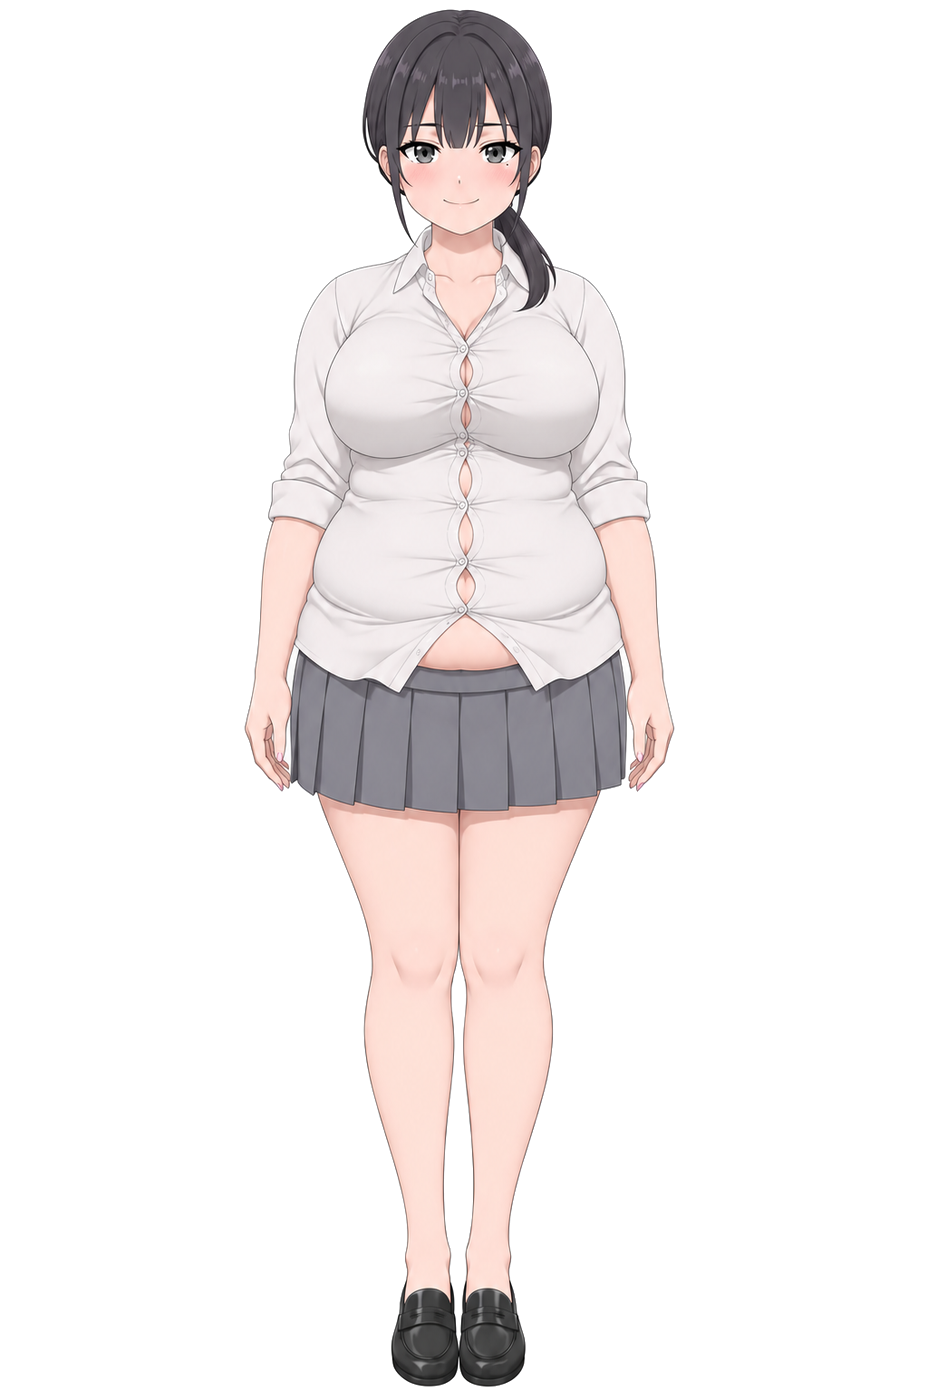
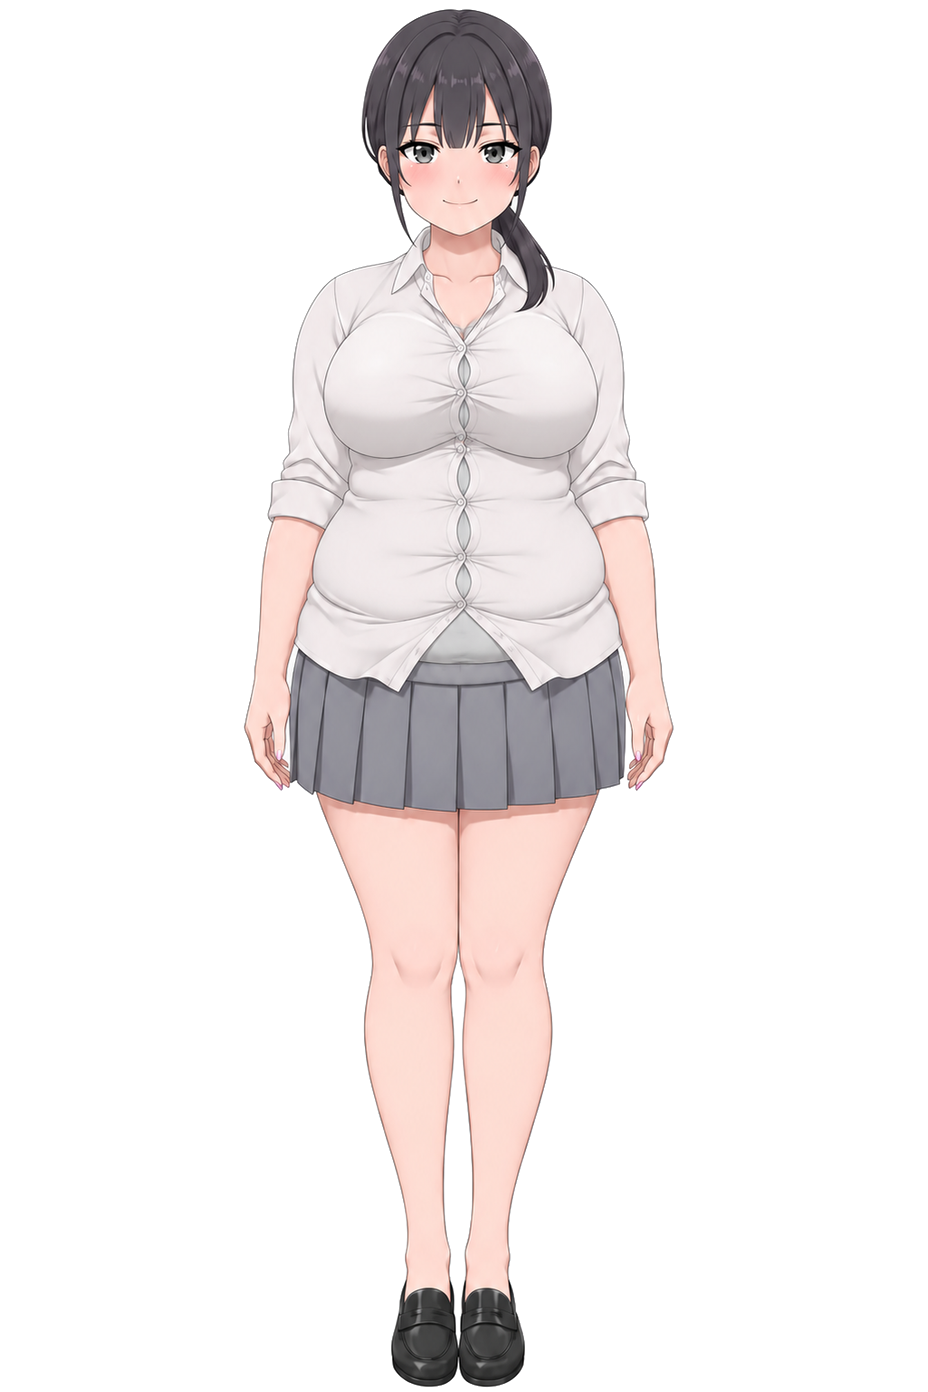
御堂家：静香8・文乃6（作り直し）・理沙7を採用
Claude-Session: https://claude.ai/code/session_018G6Rk6V1BWibDdgsCVBCLi

diff --git a/docs/理沙_キャラデザ.md b/docs/理沙_キャラデザ.md
@@ -36,6 +36,7 @@
 - 段階4（2026-11-09 採用）：`img/risa_4.png`。段階3比 腰・お尻 約1.02〜1.03倍（下限1.04に届かず）、スカートの裾 約1.12倍、ふくらはぎが太くなった。段階1比 腰・お尻 約1.10〜1.13倍（目安1.18）→ 段階5（着崩し、ひざが出る丈）は腰・お尻1.08倍まで
 - 段階5（2026-11-09 採用）：`img/risa_5.png`。袖をまくり、スカートをひざ上丈に、ソックスをたるませた着崩し、はにかんだ笑顔。段階4比 腰・お尻 約1.03〜1.09倍、胸 約1.04〜1.12倍。段階1比 腰・お尻 約1.14〜1.21倍（目安1.23）、胸 約1.10〜1.20倍（目安1.12をやや超え）。太ももがむっちり見えるようになった → 段階6は腰・お尻1.08倍まで、上半身は1.03倍まで
 - 段階6（2026-11-09 採用）：`img/risa_6.png`。肩ひもを外してプリーツスカートだけ、白いルーズソックス、淡いピンクのネイル。段階5比 腰・お尻 約1.05倍、胸 約1.02倍、太もも 約1.10倍。段階1比 腰・お尻 約1.20〜1.27倍（目安1.29）、胸 約1.13〜1.23倍（目安1.16）。太ももがかなり太い → 段階7は腰1.06倍まで、太ももは2枚目の輪郭線をなぞる
+- 段階7（2026-11-09 採用）：`img/risa_7.png`。黒髪の高いツインテール、ピンクのカーディガン（前を開ける）、ミニ丈、白いルーズソックス、黒い厚底ローファー。段階6比 胸 約1.14倍、腰・お尻 約1.10〜1.20倍（上限を超えたが、体の横に垂れるカーディガンの幅が入っている）、太ももは同じ。段階1比 腰・お尻 約1.34〜1.45倍（目安1.34〜1.44）→ 段階8（見本の服に切り替え）は腰・お尻1.03倍まで、上半身はほとんど変えない
 
 ## ChatGPTでの立ち絵作成（段階2〜15）
 新しいチャットで、段階1の画像を添付して①を送り、「了解」が返ってきたら段階2から順に送る。段階3以降は毎回「最初の画像」と「1つ前の段階の画像」の2枚を添付する。
@@ -177,4 +178,24 @@
 ・頭の上や体のまわりに、記号・汗・線などの漫画の効果は描かない
 ・2枚目と同じ画像をそのまま返さず、必ず新しく描き直す
 ・2枚目と並べたとき、ツインテールの高さとカーディガンと靴が変わり、腰・お尻・頬が少し太ったのが分かるようにする
+・背景は真っ白の無地。足元の影、光、ぼかしなどの効果は入れない
+
+### 理沙 段階8 ぽってり（目安81kg）
+添付：最初の画像と、段階7の画像と、段階8の見本画像（ピンクのツインテールの画像）
+
+2枚目（段階7）の画像の体型を基準に、服装・髪型・メイク・表情を3枚目（見本）と同じにして、ほんの少しだけ太らせてください（服が変わっても体の大きさは2枚目とほぼ同じ。誇張しない）。顔・目の色・目の下のほくろは1枚目（最初の画像）と同じにしてください。3枚目からは服装・髪型・メイク・表情だけをまねし、体型は3枚目をまねしないで、2枚目の体型を使う。
+・数値：身長155cm、体重81kg（段階7より+4kg、BMI33.7）。スリーサイズの目安 B103・W89・H130
+・体型：2枚目と同じ、横と後ろに大きく張り出した腰とおしり、内側がふれ合う太い太もものまま。ぴったりした白いミニスカートが腰とおしりでぱつぱつに張り、裾が太ももの付け根近くまで持ち上がる。おへその下がぽこんと出て、スカートのウエストの上に少し乗る。胸と二の腕はやわらかく丸い。肉は主に腰・お尻・太ももにつける（洋梨型）。腰・お尻・太もも・ふくらはぎは2枚目とほぼ同じ太さ。脚の部分は2枚目の画像の輪郭線をそのままなぞって描く（細くもしない）。お腹は前に張り出させない（妊婦のような見た目にしない）。肩幅（骨の幅）は広げない（ウェーブ骨格の華奢な骨格のまま）。身長155cmの骨格はそのまま
+・顔：頬がまるく、あごの下にうっすら肉がつく（目・眉・顔のパーツの配置と顔立ちは1枚目と同じ。頭頂からあごまでの高さも変えず、あごの下に肉を足すだけで、あごの位置は下げない）
+・大きさ：2枚目（段階7）の画像と比べて、腰・お尻の横幅は約1.03倍まで（1.00倍以上）、胸の高さの横幅（二の腕を含む）とお腹の高さの横幅はほとんど変えない（2枚目の幅にはカーディガンの幅も入っているので、体そのものは2枚目より少し大きいくらいにする）。太もも・ひざ・ふくらはぎの横幅は2枚目とまったく同じ。肩の線（骨の幅）はほとんど変えない。体全体の大きさ、身長、頭の大きさは2枚目と同じ（画面の中で大きく描き直さない）。2枚目より細く見せない。誇張しない
+・服が変わっても体の線が隠れないようにする
+・服装：3枚目と同じ。ピンクのクロップド丈の長袖カーディガン（前を開ける）、白いキャミソール、白いぴったりしたミニスカート、白いルーズソックス、黒い厚底ローファー。紺のプリーツスカートと白いブラウスは着ない
+・メイクとネイル：3枚目と同じギャルメイク（ピンクのチーク、マスカラ）と、ピンクのネイル（飾りの石は付けない）。アクセサリーは付けない
+・髪型：3枚目と同じ。ピンクに染めたセミロングをゆるく巻き、耳の上の高い位置でツインテールに結ぶ。結び目は髪と同じピンクの細いゴム。前髪は眉の下
+・表情：3枚目と同じ、眉を少し下げたまま、口角をきゅっと上げたはにかんだ笑顔。頬はピンクのチーク（目線はこちら、顔は正面のまま）
+・ポーズ：両腕を体の横に下ろして、正面を向いてまっすぐ立つ（足はそろえる）
+・体の比率：1枚目（最初の画像）と同じ約6.0頭身（頭頂からあごまでが身長の約6.0分の1）。脚の長さ、股下とひざの高さは1枚目と同じ（服の丈が変わっても、ひざは1枚目と同じ高さ）。厚底の靴をはいても、頭頂から足の裏までの高さは2枚目と同じ（体を縮めない）。太ももの肉がひざにかぶさっても、ひざの位置を下げない。太っても頭全体を大きくせず、顔は横に丸くなるだけ。脚を短くしない
+・頭の上や体のまわりに、記号・汗・線などの漫画の効果は描かない
+・2枚目と同じ画像をそのまま返さず、必ず新しく描き直す
+・2枚目と並べたとき、服・髪の色と髪型・メイクが3枚目と同じに変わり、体は2枚目より少し大きいくらいに見えるようにする
 ・背景は真っ白の無地。足元の影、光、ぼかしなどの効果は入れない

diff --git a/docs/静香_キャラデザ.md b/docs/静香_キャラデザ.md
@@ -36,6 +36,7 @@
 - 段階5（2026-11-09 採用）：`img/shizuka_5.png`。ベージュのカーディガン（前を閉める）＋グレーのタートルネック＋紺のロングスカート＋黒いフラットシューズ、少し伸びたボブ、眉をつり上げたいらいら顔（目の下のくまは薄い）。段階4比 胸〜お腹 約1.12〜1.19倍（上限1.12をやや超え。取り戻した）。段階1比 約1.20〜1.31倍（目安1.36）。ロングスカートで脚の数字は測れない → 段階6は上限1.06
 - 段階6（2026-11-09 採用）：`img/shizuka_6.png`。段階5と同じ服・髪・いらいら顔。カーディガンのボタンの間がお腹で引っぱられて開いた。段階5比 約1.02〜1.06倍（上限1.06どおり）。段階1比 胸〜お腹 約1.32〜1.38倍、腰 約1.20〜1.24倍（目安1.42）→ 段階7（リップ・マニキュアだけ）は上限1.06
 - 段階7（2026-11-09 採用）：`img/shizuka_7.png`。段階6と同じ服・髪・いらいら顔で、唇がほんのりピンク（ごく控えめ。マニキュアはほぼ見えない）。段階6比 約1.02〜1.05倍。段階1比 胸〜お腹 約1.36〜1.42倍、腰 約1.25〜1.28倍（目安1.49）→ 段階8（Vネックに替えてカーディガンの前を開ける）は上限1.07・下限1.03
+- 段階8（2026-11-09 採用）：`img/shizuka_8.png`。黒いVネックのニット＋前を開けたカーディガン、横髪を耳にかけたボブ（内巻きは弱め）、頬を赤らめたつんとした顔。段階7比 約1.07〜1.11倍（上限1.07をやや超え）。段階1比 胸〜お腹 約1.45〜1.56倍（目安1.55に追いついた）→ 段階9（ギャル服に切り替え、脚が見える）は上限1.05
 
 ## ChatGPTでの立ち絵作成（段階3〜15）
 新しいチャットで、段階1の画像を添付して①を送り、「了解」が返ってきたら段階3から順に送る。段階4以降は毎回「最初の画像」と「1つ前の段階の画像」の2枚を添付する。
@@ -162,4 +163,23 @@
 ・頭の上や体のまわりに、記号・汗・線などの漫画の効果は描かない
 ・2枚目と同じ画像をそのまま返さず、必ず新しく描き直す
 ・2枚目と並べたとき、髪型・中のニット・表情が変わり、お腹・二の腕・頬が少し太ったのが分かるようにする
+・背景は真っ白の無地。足元の影、光、ぼかしなどの効果は入れない
+
+### 静香 段階9 たっぷり（目安88kg）
+添付：最初の画像と、段階8の画像
+
+2枚目（段階8）の画像の体型を基準に、服装・髪型・表情を変え、少しだけ太らせてください（服が変わっても体の大きさは2枚目とほぼ同じ。誇張しない）。顔・目の色・目の下のほくろは1枚目（最初の画像）と同じにしてください。
+・数値：身長158cm、体重88kg（段階8より+4kg、BMI35.3）。スリーサイズの目安 B107・W103・H124
+・体型：ぴったりしたヒョウ柄のニットワンピースに、2段に突き出したやわらかいお腹と、まるく張り出したおしりがそのまま浮き出て、段の境目に生地が食い込む。胸は重く大きく、二の腕は太くやわらかい。ワンピースの裾から見える脚は、全身と同じくらいの太さで、太ももはむっちり太く、ふくらはぎも太い（脚だけを極端に太くしない。ひざの形は残す）。肉は全身に均等にやわらかくつける（隠れ肥満型。どこか1か所だけを太らせない）。お腹はボール・浮き輪の形にせず、下側がやわらかくたるむ形（妊婦のような見た目にしない）。肩幅（骨の幅）は広げない（ウェーブ骨格の華奢な骨格のまま）。身長158cmの骨格はそのまま
+・顔：丸顔で、あごの下に二重あご（目・眉・顔のパーツの配置と顔立ちは1枚目と同じ。頭頂からあごまでの高さも変えず、あごの下に肉を足すだけで、あごの位置は下げない）
+・大きさ：2枚目（段階8）の画像と比べて、胸・お腹・腰の高さの横幅（二の腕を含む）は約1.05倍まで（1.02倍以上）。肩の線（骨の幅）はほとんど変えない。体全体の大きさ、身長、頭の大きさは2枚目と同じ（画面の中で大きく描き直さない）。2枚目より細くしない。誇張しない
+・服が変わっても体の線が隠れないようにする。2枚目より痩せて見えないように
+・服装：大きいサイズのヒョウ柄のぴったりしたニットワンピース（ひざ上丈、半袖、胸元が丸く開く。胸の谷間は見せない。体に沿い、ウエストの切り替えやギャザーはない）、黒いロングカーディガン（ひざ下丈。前を開けて羽織る）、黒い厚底サンダル。濃いめのギャルメイク（つけまつげ、濃いアイライン、ピンクのリップ）、ピンクの長いネイル（飾りの石は付けない）。ベージュのカーディガン・黒いVネックのニット・紺のロングスカートは着ない。アクセサリーは付けない
+・髪型：明るいアッシュブラウンに染めた、肩までの長さの髪を、全体にゆるく巻く。横髪を前に下ろして、頬と首まわりを少し隠す（顔は隠さない）
+・表情：表情だけは2枚目の画像をまねしないで、新しく描く。初めての濃いめのギャルメイクで、口元だけぎこちなく笑おうとするが、こめかみがぴくっと引きつり、目線は横へ泳ぐ。メイクの頬まで赤い（顔は正面のまま）
+・ポーズ：両腕を体の横に下ろして、正面を向いてまっすぐ立つ（足はそろえる）
+・体の比率：1枚目（最初の画像）と同じ約6.2頭身（頭頂からあごまでが身長の約6.2分の1）。脚の長さ、股下とひざの高さは1枚目と同じ（服の丈が変わっても、ひざは1枚目と同じ高さ）。厚底のサンダルをはいても、頭頂から足の裏までの高さは1枚目とほぼ同じ（体を縮めない）。太ももの肉がひざにかぶさっても、ひざの位置を下げない。太っても頭全体を大きくせず、顔は横に丸くなるだけ。脚を短くしない
+・頭の上や体のまわりに、記号・汗・線などの漫画の効果は描かない
+・2枚目と同じ画像をそのまま返さず、必ず新しく描き直す
+・2枚目と並べたとき、服・髪の色と髪型・メイク・表情が変わり、ギャルになったのがひと目で分かるようにする（体は2枚目より少し大きいくらい）
 ・背景は真っ白の無地。足元の影、光、ぼかしなどの効果は入れない

diff --git a/docs/文乃_キャラデザ.md b/docs/文乃_キャラデザ.md
@@ -36,6 +36,7 @@
 - 段階5（2026-11-09 採用）：`img/fumino_5.png`。カーディガンの前を開け、スカートをひざ上丈に着崩し、むずむずした笑み。ブラウスのボタンの間が引っぱられ、裾からおへそがのぞく。段階4比 約0.99〜1.02倍（前を開けたカーディガンが体の横に垂れるので、横幅は増えていないが、正面のお腹ははっきり大きい）。段階1比 胸〜お腹 約1.18〜1.22倍（目安1.29に遅れ）→ 段階6（カーディガンを脱ぐ）は上半身1.10倍まで（1.05以上）
 - 段階6（2026-11-09 採用→作り直し）：`img/fumino_6.png`。ユーザー指示（段階6と7はインナーでお腹の肌を隠す）で作り直す（体型はこの画像のまま、インナーを足す）。カーディガンを脱ぎ、ブラウスの裾を出してボタンの間が大きく開き、裾からお腹がのぞく。スカートはひざ上丈、淡いネイル。段階5比 胸〜お腹 約1.06〜1.07倍、腰 約1.03倍。段階1比 胸〜お腹 約1.26〜1.30倍（目安1.36）→ 段階7は上半身1.08倍まで（1.04以上）
 - 2026-11-09 ユーザー指示：段階6と7だけ、淡いグレーのタンクトップのインナーを着て、お腹の肌を見せない。段階8以降はインナーなし（段階8は見本画像どおりのへそ出し）
+- 段階6 作り直し（2026-11-09 採用）：`img/fumino_6.png` を差し替え。淡いグレーのインナーでお腹の肌が隠れた。大きさは前の段階6と同じ（0.995〜1.00倍）
 
 ## ChatGPTでの立ち絵作成（段階2〜15）
 新しいチャットで、段階1の画像を添付して①を送り、「了解」が返ってきたら段階2から順に送る。段階3以降は毎回「最初の画像」と「1つ前の段階の画像」の2枚を添付する。
